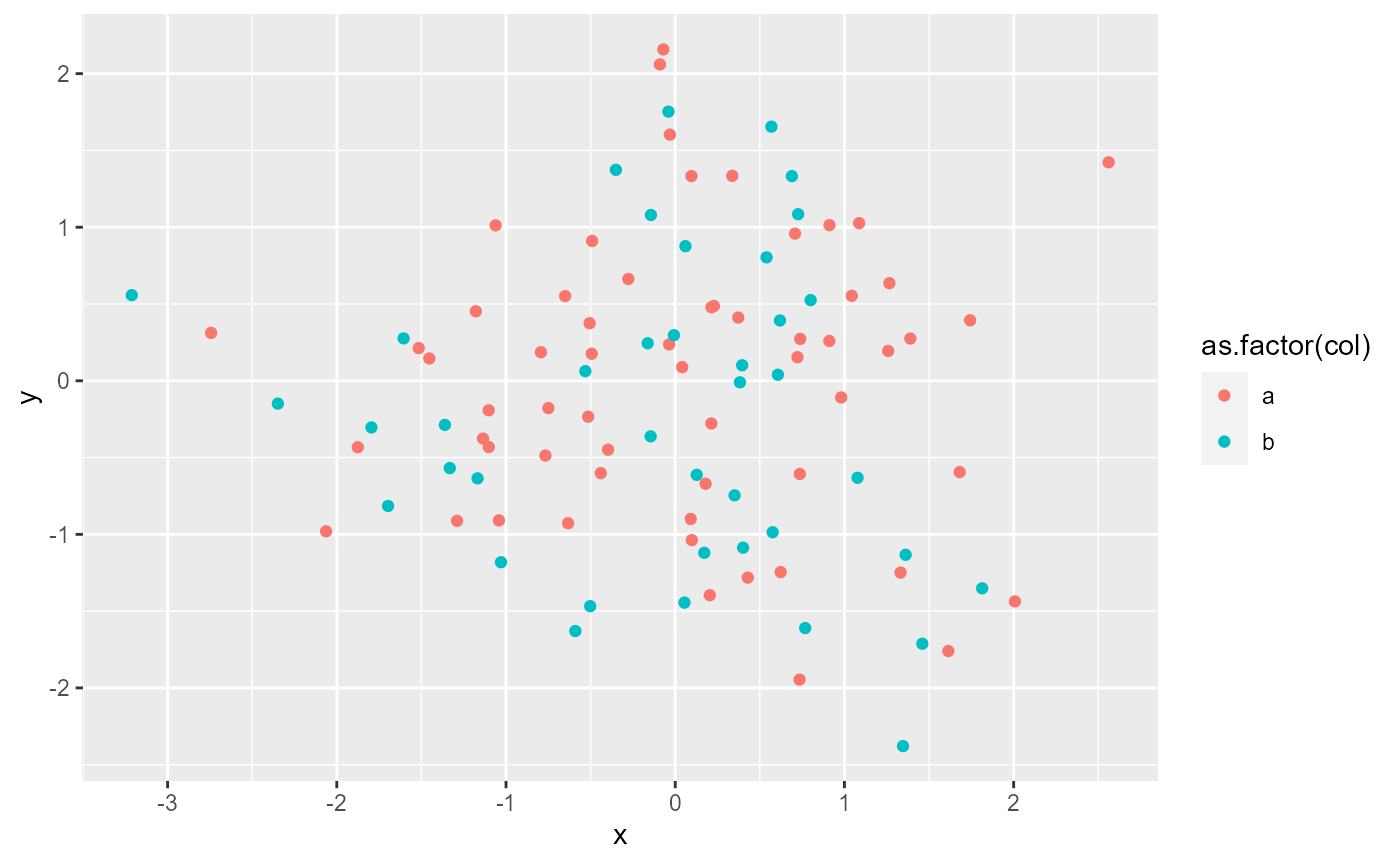
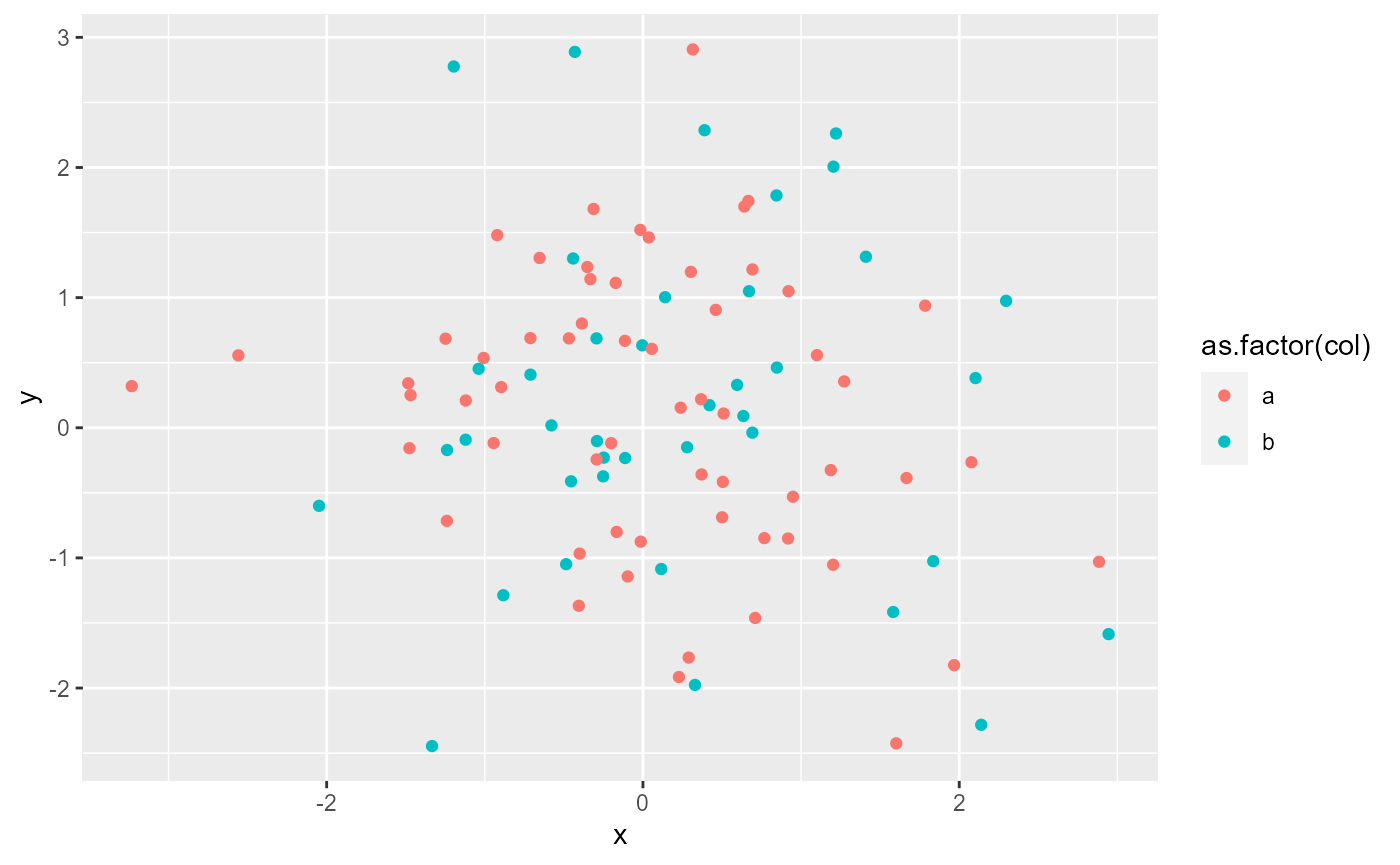
midstep 1

diff --git a/doc/C_functions-to-help-write-report.html b/doc/C_functions-to-help-write-report.html
@@ -262,7 +262,7 @@ div.csl-indent {
 <span id="cb6-13"><a href="#cb6-13" aria-hidden="true" tabindex="-1"></a><span class="co"># ```{r, child = system.file(&quot;rmd/_child_save_fig.Rmd&quot;, package = &quot;NMFSReports&quot;)}</span></span>
 <span id="cb6-14"><a href="#cb6-14" aria-hidden="true" tabindex="-1"></a><span class="co"># ```</span></span></code></pre></div>
 <div class="figure">
[2 lines of base64/hex data omitted]
 <p class="caption">Figure 1. Here is a figure!<a href="#fn4" class="footnote-ref" id="fnref4"><sup>4</sup></a> <sup>,</sup><a href="#fn5" class="footnote-ref" id="fnref5"><sup>5</sup></a></p>
 </div>
 <p><em>Alternative text: This is a scatter plot of random data.</em></p>
@@ -340,53 +340,53 @@ div.csl-indent {
 <tbody>
 <tr class="odd">
 <td align="left">A</td>
-<td align="left">0.93</td>
-<td align="left">-0.44</td>
+<td align="left">-0.28</td>
+<td align="left">-0.55</td>
 </tr>
 <tr class="even">
 <td align="left">B</td>
-<td align="left">1.9</td>
-<td align="left">-1</td>
+<td align="left">-1.2</td>
+<td align="left">-0.024</td>
 </tr>
 <tr class="odd">
 <td align="left">C</td>
-<td align="left">-0.75</td>
-<td align="left">1.1</td>
+<td align="left">-0.68</td>
+<td align="left">-0.26</td>
 </tr>
 <tr class="even">
 <td align="left">D</td>
-<td align="left">0.17</td>
-<td align="left">0.98</td>
+<td align="left">0.085</td>
+<td align="left">0.24</td>
 </tr>
 <tr class="odd">
 <td align="left">E</td>
-<td align="left">0.94</td>
-<td align="left">0.33</td>
+<td align="left">-1.4</td>
+<td align="left">0.0084</td>
 </tr>
 <tr class="even">
 <td align="left">F</td>
-<td align="left">-1.3</td>
-<td align="left">-0.24</td>
+<td align="left">-1.4</td>
+<td align="left">-1.4</td>
 </tr>
 <tr class="odd">
 <td align="left">G</td>
-<td align="left">0.91</td>
-<td align="left">-0.52</td>
+<td align="left">-0.24</td>
+<td align="left">-0.24</td>
 </tr>
 <tr class="even">
 <td align="left">H</td>
-<td align="left">-0.36</td>
-<td align="left">0.14</td>
+<td align="left">1.7</td>
+<td align="left">-0.38</td>
 </tr>
 <tr class="odd">
 <td align="left">I</td>
-<td align="left">1.8</td>
-<td align="left">0.2</td>
+<td align="left">-0.078</td>
+<td align="left">-0.29</td>
 </tr>
 <tr class="even">
 <td align="left">J</td>
-<td align="left">-1.7</td>
-<td align="left">0.64</td>
+<td align="left">0.17</td>
+<td align="left">0.31</td>
 </tr>
 </tbody>
 </table>
@@ -475,53 +475,53 @@ div.csl-indent {
 <tbody>
 <tr class="odd">
 <td align="left">A</td>
-<td align="left">0.51</td>
-<td align="left">-0.96</td>
+<td align="left">-0.78</td>
+<td align="left">-0.61</td>
 </tr>
 <tr class="even">
 <td align="left">B</td>
-<td align="left">0.94<a href="#fn10" class="footnote-ref" id="fnref10"><sup>10</sup></a> <sup>,</sup><a href="#fn11" class="footnote-ref" id="fnref11"><sup>11</sup></a></td>
-<td align="left">1.5</td>
+<td align="left">1.5<a href="#fn10" class="footnote-ref" id="fnref10"><sup>10</sup></a> <sup>,</sup><a href="#fn11" class="footnote-ref" id="fnref11"><sup>11</sup></a></td>
+<td align="left">-1.4</td>
 </tr>
 <tr class="odd">
 <td align="left">C<a href="#fn12" class="footnote-ref" id="fnref12"><sup>12</sup></a></td>
-<td align="left">1.7<a href="#fn13" class="footnote-ref" id="fnref13"><sup>13</sup></a></td>
-<td align="left">-0.85</td>
+<td align="left">-0.77<a href="#fn13" class="footnote-ref" id="fnref13"><sup>13</sup></a></td>
+<td align="left">-1.2</td>
 </tr>
 <tr class="even">
 <td align="left">D<a href="#fn14" class="footnote-ref" id="fnref14"><sup>14</sup></a> <sup>,</sup><a href="#fn15" class="footnote-ref" id="fnref15"><sup>15</sup></a></td>
-<td align="left">-0.75</td>
-<td align="left">0.052</td>
+<td align="left">-1.3</td>
+<td align="left">-0.53</td>
 </tr>
 <tr class="odd">
 <td align="left">E</td>
-<td align="left">0.31</td>
-<td align="left">0.52</td>
+<td align="left">1.3</td>
+<td align="left">0.07</td>
 </tr>
 <tr class="even">
 <td align="left">F</td>
-<td align="left">0.27</td>
-<td align="left">0.45</td>
+<td align="left">0.98</td>
+<td align="left">-0.0081</td>
 </tr>
 <tr class="odd">
 <td align="left">G</td>
-<td align="left">-2.6</td>
-<td align="left">0.37</td>
+<td align="left">0.4</td>
+<td align="left">1.4</td>
 </tr>
 <tr class="even">
 <td align="left">H</td>
-<td align="left">-1.3</td>
-<td align="left">0.58</td>
+<td align="left">-1.1</td>
+<td align="left">0.36</td>
 </tr>
 <tr class="odd">
 <td align="left">I</td>
-<td align="left">0.6</td>
-<td align="left">0.1</td>
+<td align="left">0.27</td>
+<td align="left">0.36</td>
 </tr>
 <tr class="even">
 <td align="left">J</td>
-<td align="left">0.72</td>
-<td align="left">-0.24</td>
+<td align="left">-0.7</td>
+<td align="left">-1.7</td>
 </tr>
 </tbody>
 </table>

diff --git a/docs/articles/C_functions-to-help-write-report.html b/docs/articles/C_functions-to-help-write-report.html
@@ -323,53 +323,53 @@ Figure 2. Here is a figure!<a href="#fn6" class="footnote-ref" id="fnref6"><sup>
 <tbody>
 <tr class="odd">
 <td align="left">A</td>
-<td align="left">-0.58</td>
-<td align="left">0.049</td>
+<td align="left">-0.65</td>
+<td align="left">-0.15</td>
 </tr>
 <tr class="even">
 <td align="left">B</td>
-<td align="left">-1.6</td>
-<td align="left">0.71</td>
+<td align="left">-0.18</td>
+<td align="left">-1.3</td>
 </tr>
 <tr class="odd">
 <td align="left">C</td>
-<td align="left">-0.32</td>
-<td align="left">-1.6</td>
+<td align="left">-0.093</td>
+<td align="left">-0.0094</td>
 </tr>
 <tr class="even">
 <td align="left">D</td>
-<td align="left">-0.75</td>
-<td align="left">-1</td>
+<td align="left">-0.82</td>
+<td align="left">-0.3</td>
 </tr>
 <tr class="odd">
 <td align="left">E</td>
-<td align="left">-0.011</td>
-<td align="left">-1.5</td>
+<td align="left">0.13</td>
+<td align="left">0.55</td>
 </tr>
 <tr class="even">
 <td align="left">F</td>
-<td align="left">0.76</td>
-<td align="left">0.62</td>
+<td align="left">0.87</td>
+<td align="left">-0.34</td>
 </tr>
 <tr class="odd">
 <td align="left">G</td>
-<td align="left">0.42</td>
-<td align="left">0.66</td>
+<td align="left">-0.096</td>
+<td align="left">-1.4</td>
 </tr>
 <tr class="even">
 <td align="left">H</td>
-<td align="left">0.76</td>
-<td align="left">1.4</td>
+<td align="left">-0.17</td>
+<td align="left">0.47</td>
 </tr>
 <tr class="odd">
 <td align="left">I</td>
-<td align="left">0.8</td>
-<td align="left">-2.1</td>
+<td align="left">0.22</td>
+<td align="left">0.89</td>
 </tr>
 <tr class="even">
 <td align="left">J</td>
-<td align="left">-1.2</td>
-<td align="left">-0.93</td>
+<td align="left">-0.13</td>
+<td align="left">-0.58</td>
 </tr>
 </tbody>
 </table>
@@ -460,57 +460,57 @@ Figure 2. Here is a figure!<a href="#fn6" class="footnote-ref" id="fnref6"><sup>
 <tbody>
 <tr class="odd">
 <td align="left">A</td>
-<td align="left">-0.79</td>
-<td align="left">-0.37</td>
+<td align="left">-0.13</td>
+<td align="left">-0.78</td>
 </tr>
 <tr class="even">
 <td align="left">B</td>
-<td align="left">-0.56<a href="#fn10" class="footnote-ref" id="fnref10"><sup>10</sup></a> <sup>,</sup><a href="#fn11" class="footnote-ref" id="fnref11"><sup>11</sup></a>
+<td align="left">1.9<a href="#fn10" class="footnote-ref" id="fnref10"><sup>10</sup></a> <sup>,</sup><a href="#fn11" class="footnote-ref" id="fnref11"><sup>11</sup></a>
 </td>
-<td align="left">0.22</td>
+<td align="left">1.7</td>
 </tr>
 <tr class="odd">
 <td align="left">C<a href="#fn12" class="footnote-ref" id="fnref12"><sup>12</sup></a>
 </td>
-<td align="left">-0.25<a href="#fn13" class="footnote-ref" id="fnref13"><sup>13</sup></a>
+<td align="left">1.9<a href="#fn13" class="footnote-ref" id="fnref13"><sup>13</sup></a>
 </td>
-<td align="left">1.2</td>
+<td align="left">-0.52</td>
 </tr>
 <tr class="even">
 <td align="left">D<a href="#fn14" class="footnote-ref" id="fnref14"><sup>14</sup></a> <sup>,</sup><a href="#fn15" class="footnote-ref" id="fnref15"><sup>15</sup></a>
 </td>
-<td align="left">0.85</td>
-<td align="left">0.96</td>
+<td align="left">0.16</td>
+<td align="left">0.37</td>
 </tr>
 <tr class="odd">
 <td align="left">E</td>
-<td align="left">-0.71</td>
-<td align="left">0.047</td>
+<td align="left">0.55</td>
+<td align="left">-1.9</td>
 </tr>
 <tr class="even">
 <td align="left">F</td>
-<td align="left">-1.5</td>
-<td align="left">0.96</td>
+<td align="left">-1.2</td>
+<td align="left">-0.75</td>
 </tr>
 <tr class="odd">
 <td align="left">G</td>
-<td align="left">0.69</td>
-<td align="left">-0.87</td>
+<td align="left">0.91</td>
+<td align="left">-0.56</td>
 </tr>
 <tr class="even">
 <td align="left">H</td>
-<td align="left">-0.52</td>
-<td align="left">-0.82</td>
+<td align="left">-0.59</td>
+<td align="left">0.035</td>
 </tr>
 <tr class="odd">
 <td align="left">I</td>
-<td align="left">-1.1</td>
-<td align="left">-0.51</td>
+<td align="left">-0.55</td>
+<td align="left">-0.079</td>
 </tr>
 <tr class="even">
 <td align="left">J</td>
-<td align="left">0.73</td>
-<td align="left">0.84</td>
+<td align="left">0.46</td>
+<td align="left">-0.33</td>
 </tr>
 </tbody>
 </table>

diff --git a/docs/reference/buildReport.html b/docs/reference/buildReport.html
@@ -169,8 +169,8 @@
     </div>
 
     <pre class="usage"><span class='fu'>buildReport</span><span class='op'>(</span>
-  sections <span class='op'>=</span> <span class='fu'><a href='https://rdrr.io/r/base/c.html'>c</a></span><span class='op'>(</span><span class='st'>"frontmatter"</span>, <span class='st'>"abstract"</span>, <span class='st'>"introduction"</span>, <span class='st'>"methods"</span>, <span class='st'>"results"</span>,
-    <span class='st'>"discussion"</span>, <span class='st'>"endmatter"</span>, <span class='st'>"presentation"</span><span class='op'>)</span>,
+  sections <span class='op'>=</span> <span class='fu'><a href='https://rdrr.io/r/base/c.html'>c</a></span><span class='op'>(</span><span class='st'>"abstract"</span>, <span class='st'>"introduction"</span>, <span class='st'>"methods"</span>, <span class='st'>"results"</span>, <span class='st'>"discussion"</span>,
+    <span class='st'>"endmatter"</span>, <span class='st'>"presentation"</span><span class='op'>)</span>,
   authors <span class='op'>=</span> <span class='st'>""</span>,
   title <span class='op'>=</span> <span class='st'>""</span>,
   styles_reference_pptx <span class='op'>=</span> <span class='st'>"refppt_nmfs"</span>,
